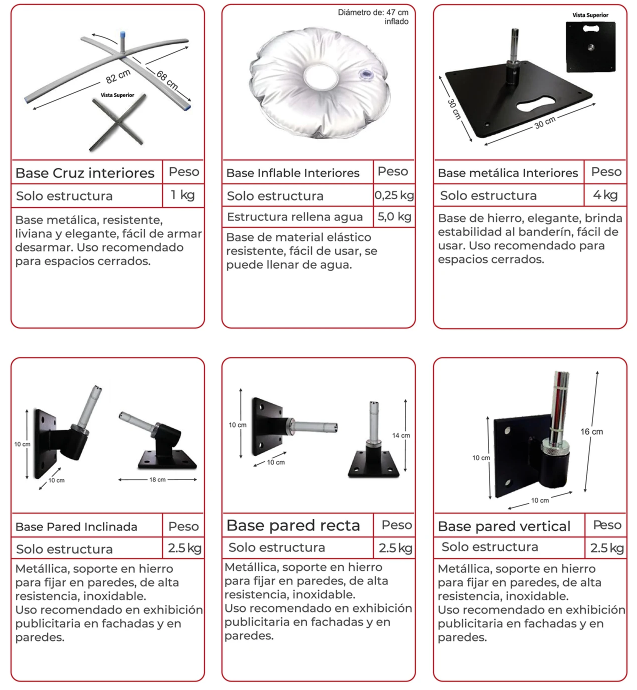
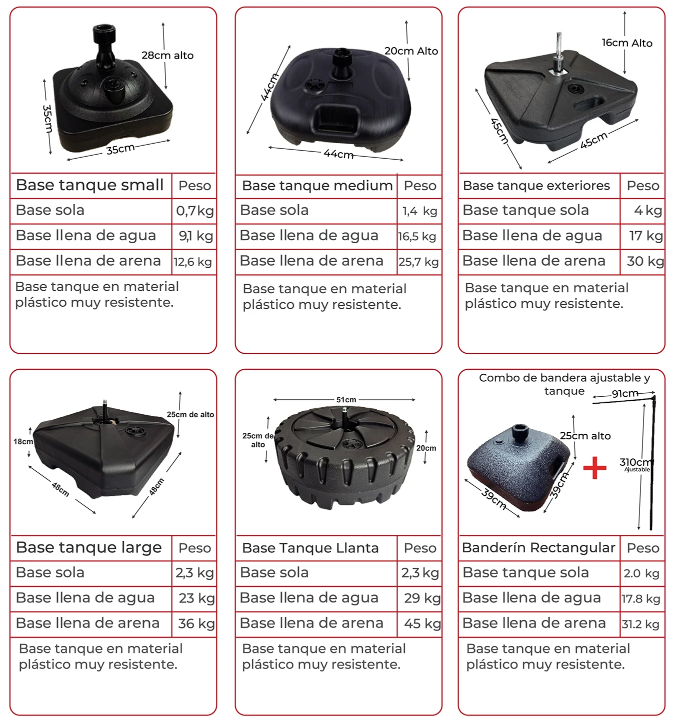
actauliza codigo e imagenes

diff --git a/base-interiores.html b/base-interiores.html
@@ -381,14 +381,14 @@
 
         <div class="producto-info">
 
-            <h1>Base Cruz Interiores</h1>
+            <h1>Bases para Interiores</h1>
 
         </div>
 
         <div class="producto-imagen">
 
-            <img src="Img/Imagenproductos/basescruz.png"
-                 alt="Base Cruz Interiores">
+            <img src="Img/Imagenproductos/basesparainteriores.png"
+                 alt="Bases para Interiores">
 
         </div>
 
